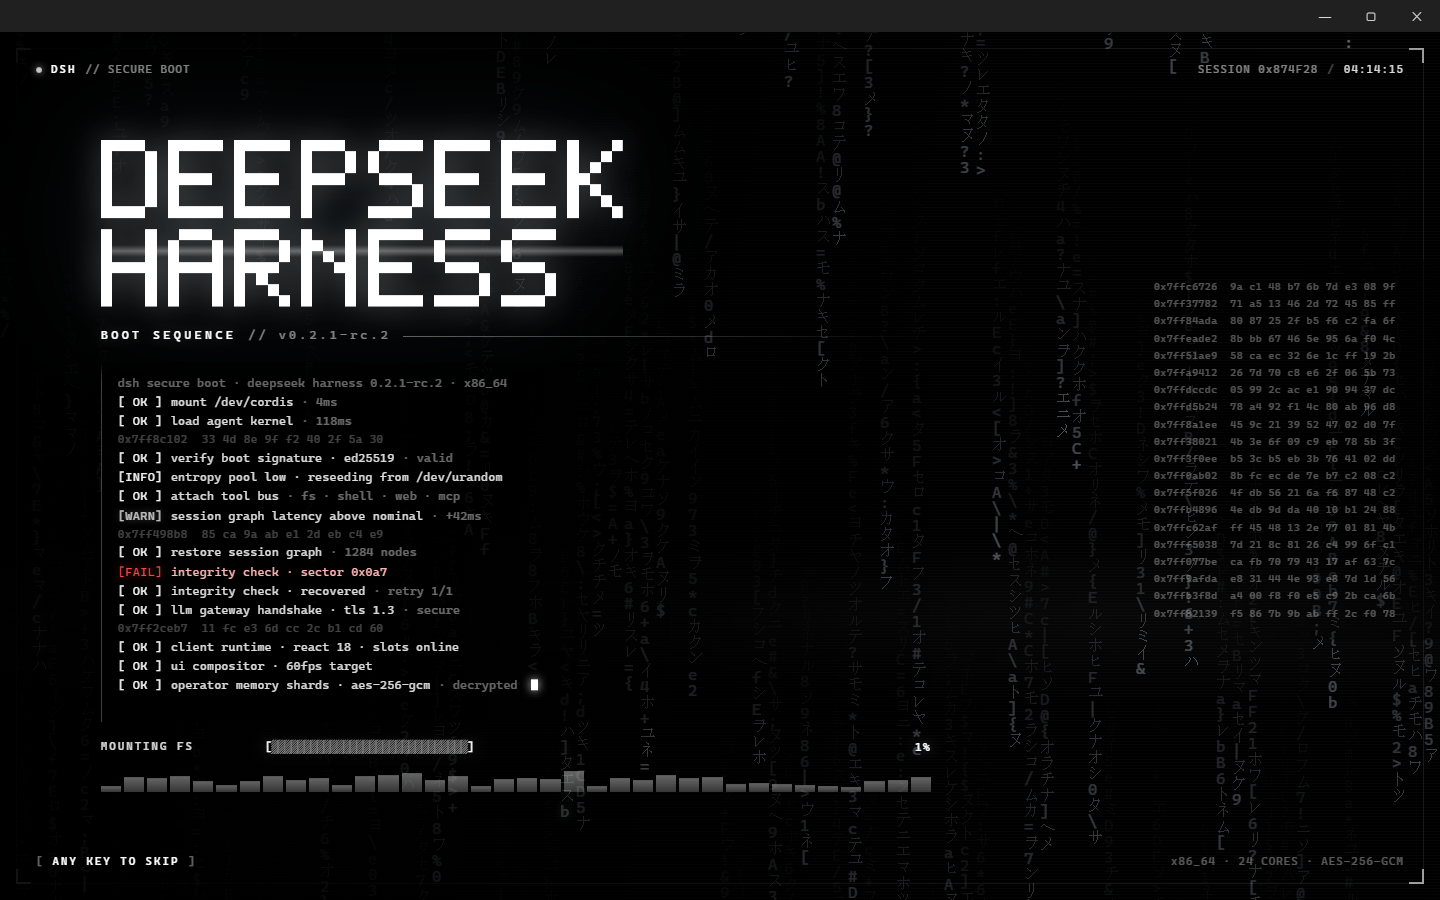
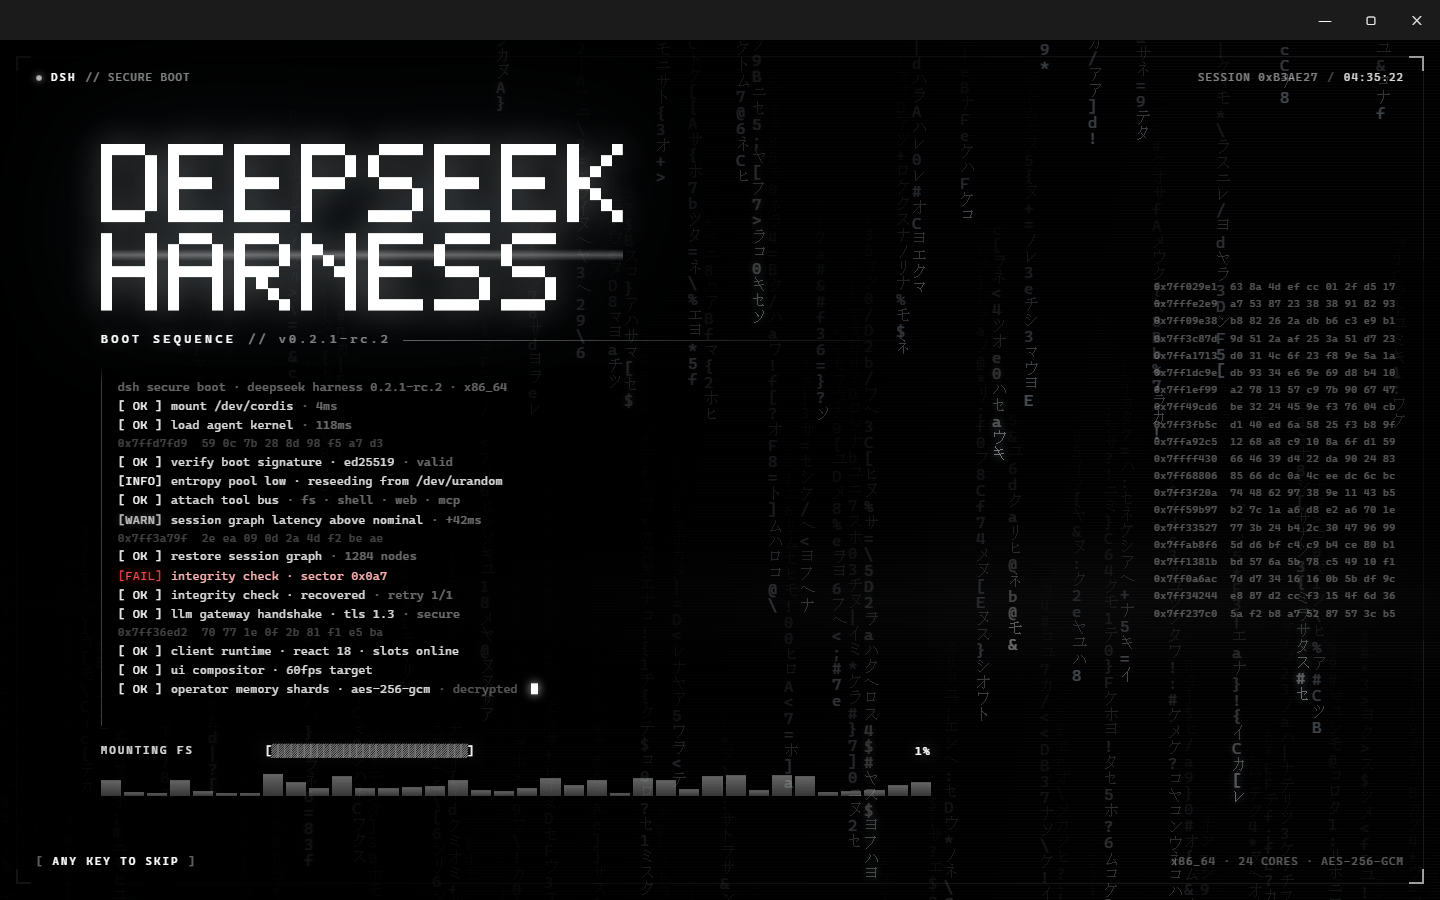
fix: 顶部 HUD 精确避让桌面端窗口按钮
DSH Desktop 是 Electron，主窗口用 titleBarStyle:"hidden" + titleBarOverlay（高 40px），
右上角的 最小化/最大化/关闭 是 Windows 原生控件，绘制在 webview 之上，CSS 藏不掉也盖不住。
之前按 Tauri 的 data-tauri-drag-region 探测，在 Electron 里量不到高度，等于没生效。

- detectSafeTop 改为优先读 navigator.windowControlsOverlay.getTitlebarAreaRect()
- 兜底顺序：Tauri 拖拽区 → Electron UA(40px) → Tauri(38px) → 0
- preview 新增 ?chrome=40，桩掉 WCO 并画同高假标题栏，可复现真机布局

diff --git a/preview.html b/preview.html
@@ -18,15 +18,15 @@
     border-radius: 6px; padding: 9px 13px; cursor: pointer;
   }
   .hint button:hover { color: #fff; border-color: rgba(255,255,255,.5); }
-  /* ?safeTop=32 时画一条假的窗口标题栏，模拟桌面端那排窗口按钮 */
+  /* ?chrome=40 时画一条假的窗口标题栏，模拟桌面端那排窗口按钮 */
   .fake-chrome {
     position: fixed; top: 0; left: 0; right: 0; z-index: 2147483600;
-    display: flex; align-items: center; justify-content: flex-end;
-    background: #202020; box-shadow: 0 1px 0 rgba(0,0,0,.6);
+    display: flex; align-items: stretch; justify-content: flex-end;
+    background: #1b1b1c; box-shadow: 0 1px 0 rgba(0,0,0,.6);
   }
   .fake-chrome i {
-    width: 46px; height: 100%; display: grid; place-items: center;
-    color: #d8d8d8; font: 12px/1 "Segoe UI Symbol", system-ui, sans-serif; font-style: normal;
+    width: 46px; display: grid; place-items: center;
+    color: #f9fafb; font: 12px/1 "Segoe UI Symbol", system-ui, sans-serif; font-style: normal;
   }
 </style>
 </head>
@@ -40,7 +40,8 @@
   // ===========================================================================
   window.DSH_BOOT = { oncePerSession: false };
   // 调试用：?hold=boot 停在启动中、?hold=granted 停在授权画面，方便截图 / 观察
-  //        ?safeTop=32 模拟桌面端标题栏高度（验证右上角不被窗口按钮压住）
+  //        ?chrome=40 模拟 DSH Desktop 的 Electron 标题栏（Window Controls Overlay，高 40px）
+  //        ?safeTop=40 手动指定顶部安全区
   (function () {
     var q = new URLSearchParams(location.search);
     var hold = q.get('hold');
@@ -49,14 +50,36 @@
       window.DSH_BOOT.duration = 200;
       window.DSH_BOOT.grantedHold = 600000;
     }
+
+    function drawChrome(h) {
+      var bar = document.createElement('div');
+      bar.className = 'fake-chrome';
+      bar.style.height = h + 'px';
+      bar.innerHTML = '<i>—</i><i>▢</i><i>✕</i>';
+      document.body.appendChild(bar);
+    }
+
+    var chromeH = Number(q.get('chrome') || 0);
+    if (chromeH > 0) {
+      // 桩：Electron 在 titleBarOverlay 模式下会暴露这个 API，插件就是靠它量高度的
+      Object.defineProperty(navigator, 'windowControlsOverlay', {
+        configurable: true,
+        value: {
+          visible: true,
+          getTitlebarAreaRect: function () {
+            return { x: 0, y: 0, width: window.innerWidth - 138, height: chromeH };
+          },
+          addEventListener: function () {},
+          removeEventListener: function () {},
+        },
+      });
+      drawChrome(chromeH);
+    }
+
     var safeTop = Number(q.get('safeTop') || 0);
     if (safeTop > 0) {
       window.DSH_BOOT.safeTop = safeTop;
-      var bar = document.createElement('div');
-      bar.className = 'fake-chrome';
-      bar.style.height = safeTop + 'px';
-      bar.innerHTML = '<i>—</i><i>▢</i><i>✕</i>';
-      document.body.appendChild(bar);
+      if (!chromeH) drawChrome(safeTop);
     }
   })();
 

diff --git a/lib/client.js b/lib/client.js
@@ -186,24 +186,39 @@ window.__ModuleLoader__.load({
       (doc.head || doc.documentElement).appendChild(style);
     }
 
-    // 桌面端的窗口标题栏压在页面顶部（右上角还是最小化/最大化/关闭按钮），
-    // 全屏过场如果贴着 top:0 摆 HUD，就会被那排按钮盖住。
-    // 这里量一下标题栏高度，把顶部装饰整体让开。
+    // 桌面端的窗口标题栏压在页面顶部，右上角还有最小化/最大化/关闭按钮。
+    // 这些按钮是 Electron / Tauri 的原生控件（DSH Desktop 走的是 Electron 的
+    // titleBarOverlay，高 40px），网页层改不了它们的显隐，只能把内容让开。
+    // 让多少？优先问 Window Controls Overlay API 要真实矩形。
     function detectSafeTop(doc, win, cfg) {
       if (typeof cfg.safeTop === 'number') return Math.max(0, cfg.safeTop);
-      let h = 0;
+
+      // 1) Electron：navigator.windowControlsOverlay 直接给出标题栏区域（不含按钮）
+      try {
+        const wco = win.navigator && win.navigator.windowControlsOverlay;
+        if (wco && wco.visible) {
+          const rect = wco.getTitlebarAreaRect();
+          if (rect && rect.height > 0) return Math.round(rect.height);
+        }
+      } catch (e) {
+        /* 老版本 Electron 没有这个 API */
+      }
+
+      // 2) Tauri：自定义标题栏一般带 data-tauri-drag-region
       try {
         const bar = doc.querySelector('[data-tauri-drag-region]');
         if (bar) {
           const rect = bar.getBoundingClientRect();
-          if (rect.top <= 1 && rect.height > 0) h = Math.round(rect.bottom);
+          if (rect.top <= 1 && rect.height > 0) return Math.round(rect.bottom);
         }
       } catch (e) {
         /* ignore */
       }
-      // 量不到但确实是桌面端（Tauri）：按 Windows 标题栏 + 按钮高度留足
-      if (win.__TAURI_INTERNALS__ || win.__TAURI__) h = Math.max(h, 38);
-      return h;
+
+      // 3) 认得出是桌面端就按各自平台的标题栏高度兜底
+      if (/\bElectron\//.test(win.navigator.userAgent || '')) return 40;
+      if (win.__TAURI_INTERNALS__ || win.__TAURI__) return 38;
+      return 0;
     }
 
     // 用 SVG 点阵画 LOGO：不依赖任何字体（ASCII 艺术在不同机器上会被渲染成

diff --git a/README.md b/README.md
@@ -54,17 +54,20 @@ window.DSH_BOOT = {
   rain: true,            // 数据流
   hex: true,             // 右侧十六进制流
   spectrum: true,        // 底部频谱条
-  safeTop: null,         // 顶部安全区（px）。桌面端标题栏会盖住页面顶部，
-                         // 留空则自动测量 [data-tauri-drag-region] 的高度
+  safeTop: null,         // 顶部安全区（px）。留空则自动测量桌面端标题栏高度
 };
 ```
 
-桌面端（Tauri）的窗口标题栏压在页面最上面，右上角还有最小化/最大化/关闭按钮。
-插件会自动量出标题栏高度，把四角 HUD 和边框整体下移，窗口按钮不会再压住 `SESSION / 时钟`。
-浏览器里没有标题栏，测量结果为 0，布局和原来完全一致。
+桌面端的窗口标题栏压在页面最上面，右上角还有最小化 / 最大化 / 关闭按钮。
+这些按钮是**系统原生控件**（DSH Desktop 走 Electron 的 `titleBarOverlay`，高 40px），
+网页层既盖不住也藏不掉——所以插件不硬刚，而是精确让位：
+用 `navigator.windowControlsOverlay.getTitlebarAreaRect()` 量出标题栏高度，
+把四角 HUD、边框和主面板整体下移，按钮就压不到 `SESSION / 时钟` 了。
+量不到时按 Electron 40px / Tauri 38px 兜底；浏览器里结果为 0，布局和原来完全一致。
 
 只想在开发时看一次：打开 `preview.html`，或在 URL 后加 `?hold=boot` / `?hold=granted` 把画面冻结在对应阶段。
-想验证桌面端标题栏的让位效果：加 `?safeTop=32`，预览页会画一条假的标题栏和三个窗口按钮。
+想验证桌面端标题栏的让位效果：加 `?chrome=40`，预览页会用桩数据模拟 Electron 的
+Window Controls Overlay，并画一条同高的假标题栏和三个窗口按钮。
 
 ## 结构
 
